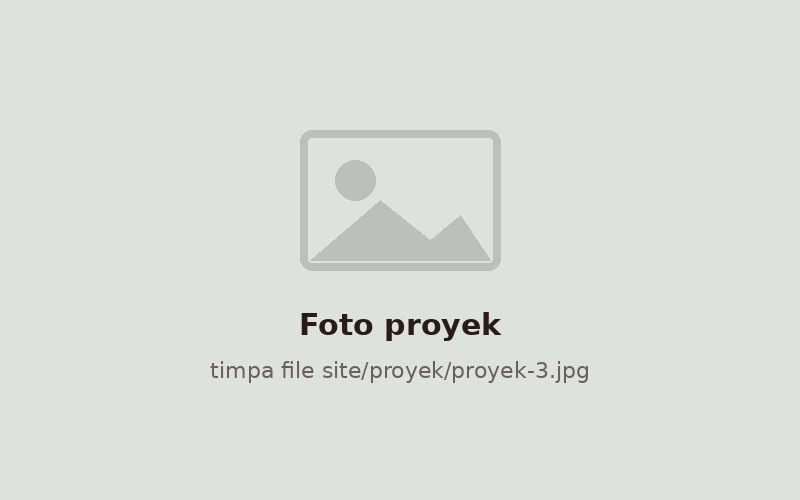
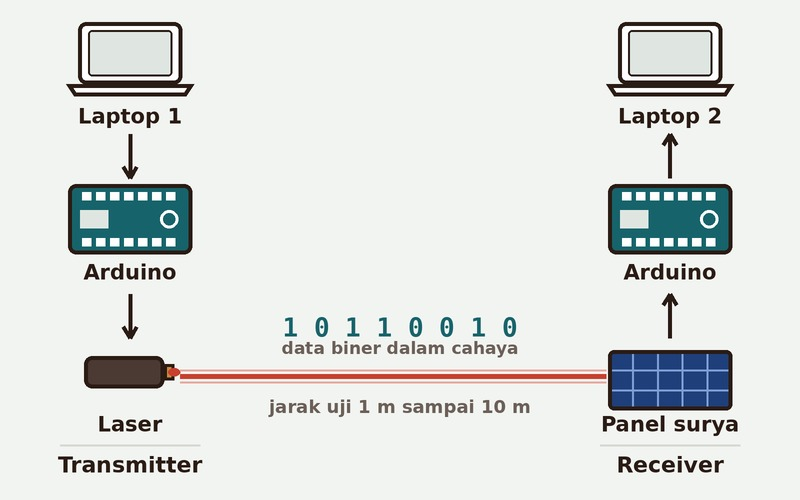
Rev10

diff --git a/index.html b/index.html
@@ -127,12 +127,12 @@
             </div>
           </li>
           <li class="row">
-            <img src="proyek/proyek-3.jpg" width="800" height="500" loading="lazy" alt="Foto proyek ketiga">
+            <img src="proyek/proyek-3.jpg" width="800" height="500" loading="lazy" alt="Ilustrasi sistem Li-Fi: data dari Laptop 1 diproses Arduino, dipancarkan laser, ditangkap panel surya, lalu diteruskan lewat Arduino ke Laptop 2">
             <div>
-              <p class="when">Tahun</p>
-              <h3>Nama proyek</h3>
-              <p>Satu-dua kalimat: masalah apa yang diselesaikan dan peranmu apa.</p>
-              <p class="stack">Teknologi yang dipakai</p>
+              <p class="when">Penelitian tim, Thursina IIBS</p>
+              <h3>SERBA DASTER: Li-Fi berbasis laser</h3>
+              <p>Prototipe yang mengirim teks lewat cahaya laser. Arduino mengubah data jadi sinyal biner, laser memancarkannya, dan panel surya di sisi penerima menangkap lalu menerjemahkannya kembali. Diuji pada jarak 1, 3, 5, dan 10 meter; pada 1 meter ketiga data terkirim utuh.</p>
+              <p class="stack">Arduino Uno, laser, panel surya, Li-Fi</p>
             </div>
           </li>
         </ul>
